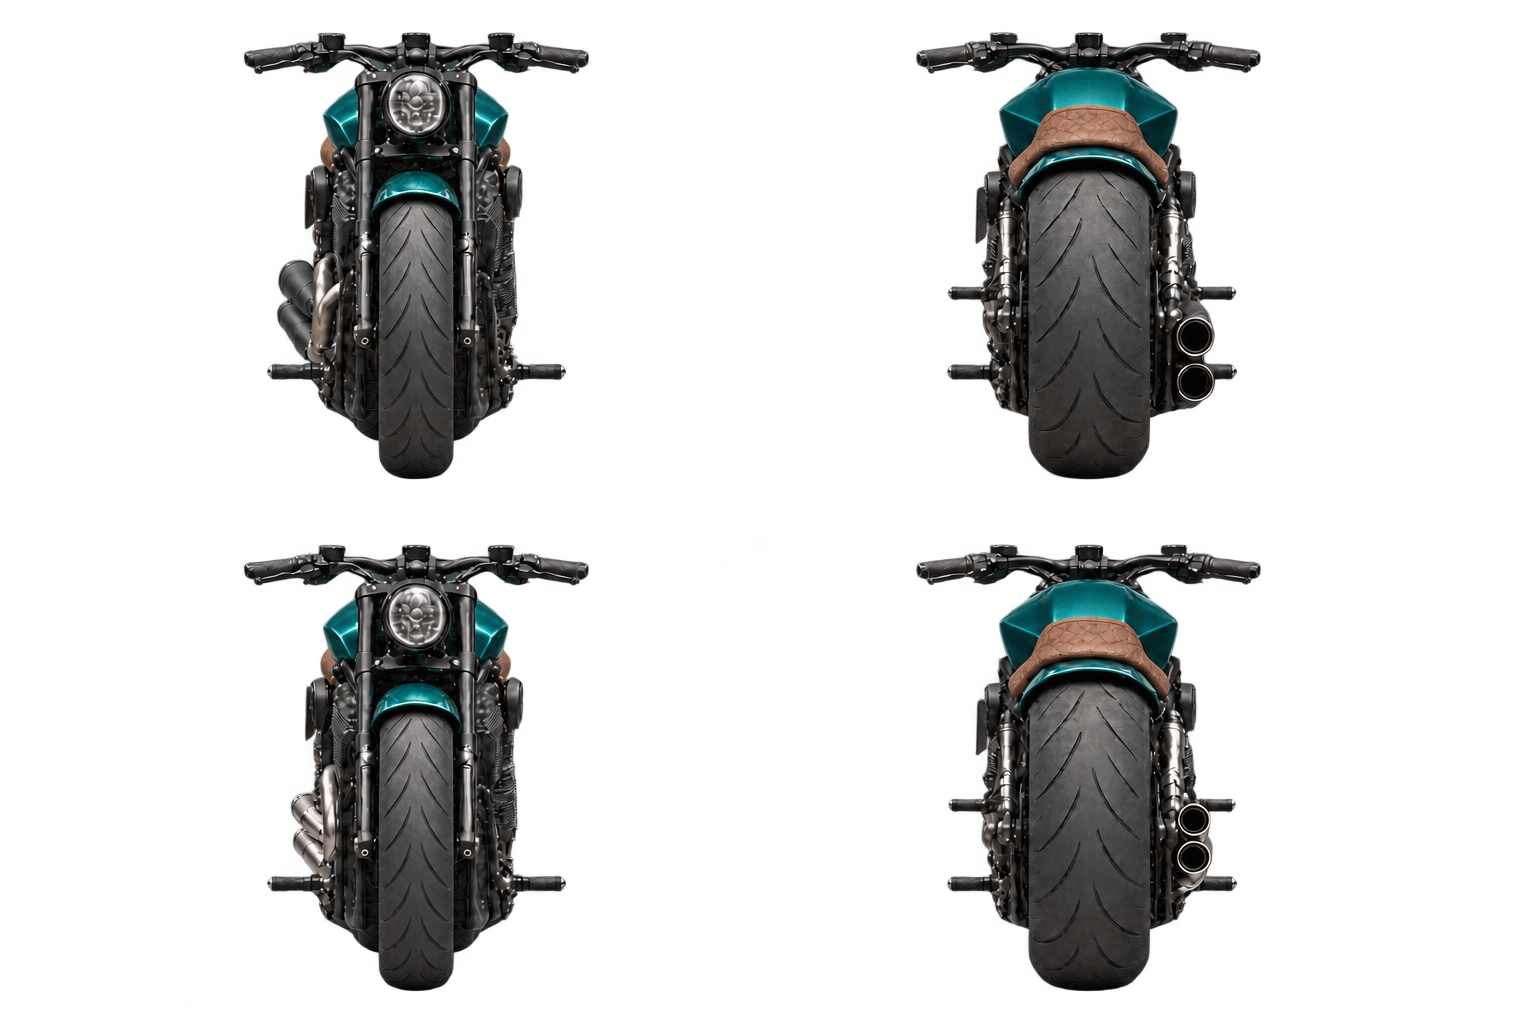
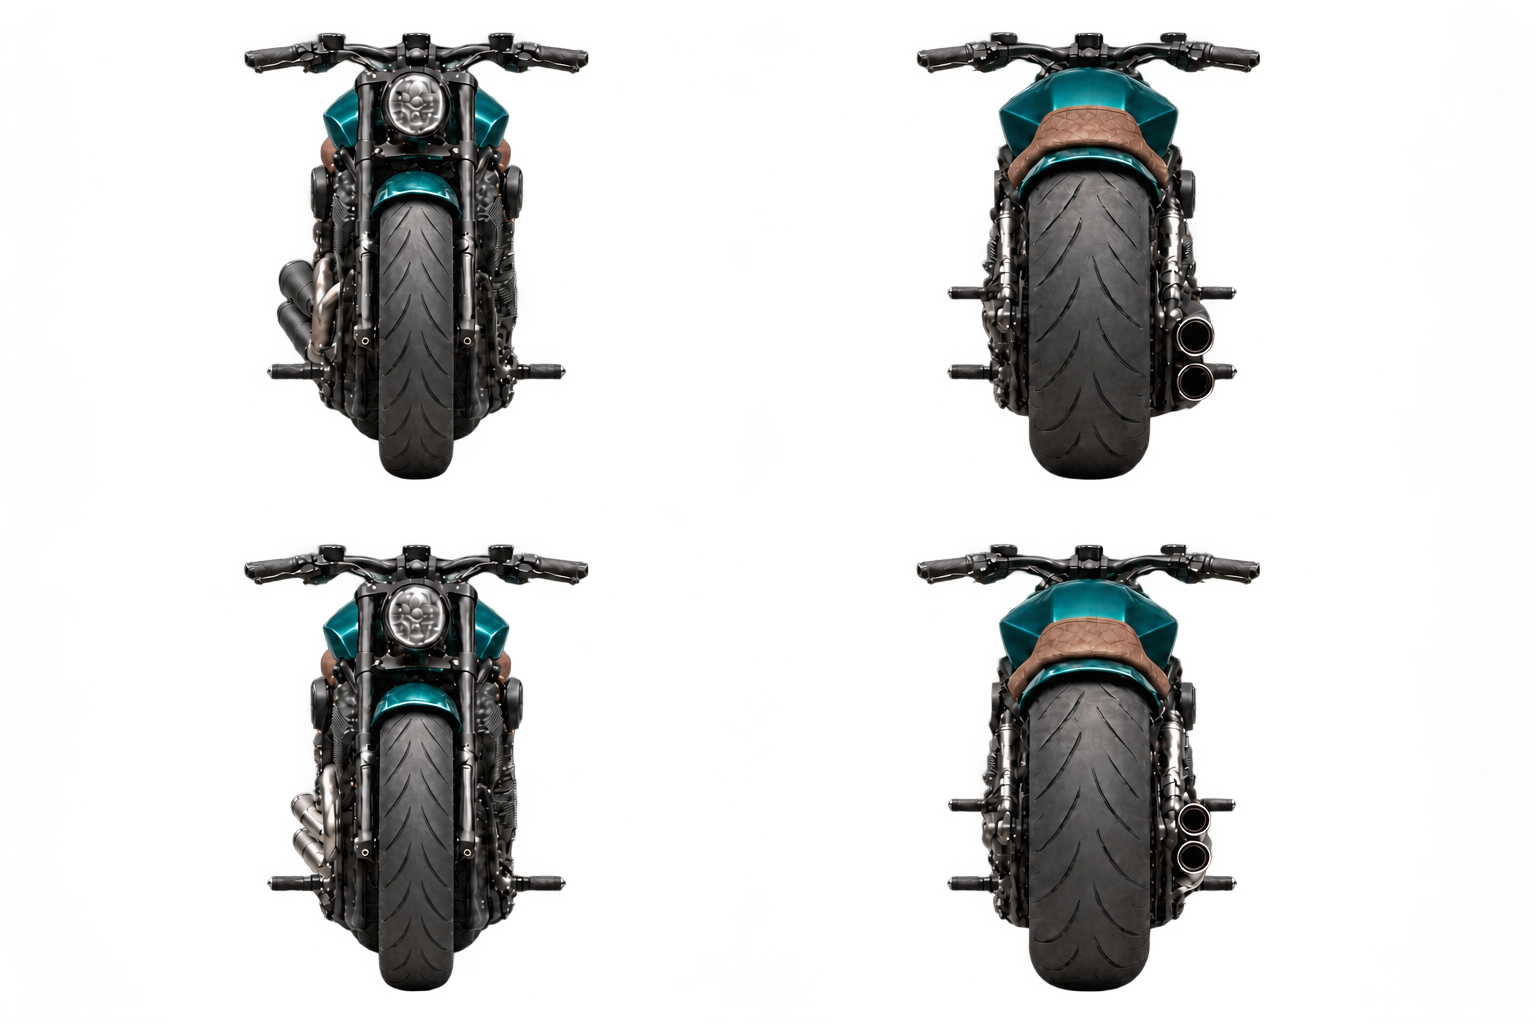
Repair wheel transparency and black leather, remove plate bracket

diff --git a/src/lib/BikeViewer.svelte b/src/lib/BikeViewer.svelte
@@ -48,14 +48,27 @@
   }
 
   /** Tint only the chromatic bodywork and leather, retaining neutral mechanical parts and highlights.
-   * @param {ImageData} frame @param {string} bodyColor @param {string} leatherColor */
-  function tintMaterials(frame, bodyColor, leatherColor) {
+   * @param {ImageData} frame @param {string} bodyColor @param {string} leatherColor @param {number[]} seatBounds */
+  function tintMaterials(frame, bodyColor, leatherColor, seatBounds) {
     const body = rgb(bodyColor)
     const leather = rgb(leatherColor)
     const pixels = frame.data
     for (let index = 0; index < pixels.length; index += 4) {
       if (!pixels[index + 3]) continue
       const r = pixels[index], g = pixels[index + 1], b = pixels[index + 2]
+      // Desaturate warm highlights and stitching inside the saddle as well as its base colour.
+      // Bounds are expressed in a 768x512 frame and exclude warm metal elsewhere on the bike.
+      const x = (index / 4 % frame.width) * 768 / frame.width
+      const y = Math.floor(index / 4 / frame.width) * 512 / frame.height
+      if (leatherColor === '#29292a' && x >= seatBounds[0] && x <= seatBounds[2]
+        && y >= seatBounds[1] && y <= seatBounds[3] && r - g > 4 && g - b > 3) {
+        const luminance = 0.2126 * r + 0.7152 * g + 0.0722 * b
+        const tone = luminance * 0.34 + Math.max(0, luminance - 150) * 0.35
+        pixels[index] = tone
+        pixels[index + 1] = tone
+        pixels[index + 2] = tone + 1
+        continue
+      }
       const bodyStrength = Math.min(g, b) - r
       const leatherStrength = r - Math.max(g, b)
       let target, strength, shade, reflection
@@ -80,7 +93,9 @@
 
   $effect(() => {
     const selectedView = views[view]
-    const path = selectedView.axial ? '/images/vrod-axial.png' : source
+    // The exhaust is hidden in the left profile; share one frame to prevent wheel geometry changing.
+    const path = selectedView.axial ? '/images/vrod-axial.png'
+      : selectedView.frame === 3 ? '/images/vrod-short.png' : source
     const angle = selectedView.frame + (selectedView.axial ? axialRow * 2 : 0)
     const body = paint, leather = seat
     retry
@@ -100,7 +115,7 @@
         const context = buffer.getContext('2d', { willReadFrequently: true })
         if (!context) throw new Error('Canvas unavailable')
         context.drawImage(image, (angle % 2) * width, Math.floor(angle / 2) * height, width, height, 0, 0, width, height)
-        frame = tintMaterials(context.getImageData(0, 0, width, height), body, leather)
+        frame = tintMaterials(context.getImageData(0, 0, width, height), body, leather, selectedView.seatBounds)
         if (cache.size >= 12) cache.delete(cache.keys().next().value)
         cache.set(key, frame)
       }

diff --git a/src/lib/configurator.js b/src/lib/configurator.js
@@ -16,12 +16,12 @@ export const exhausts = [
 ]
 
 export const views = [
-  { name: 'Правый профиль', short: 'Справа', frame: 0, axial: false, bearing: 90 },
-  { name: 'Спереди, три четверти', short: 'Перед ¾', frame: 1, axial: false, bearing: 45 },
-  { name: 'Вид прямо спереди', short: 'Анфас', frame: 0, axial: true, bearing: 0 },
-  { name: 'Левый профиль', short: 'Слева', frame: 3, axial: false, bearing: -90 },
-  { name: 'Вид прямо сзади', short: 'Сзади', frame: 1, axial: true, bearing: -180 },
-  { name: 'Сзади, три четверти', short: 'Корма ¾', frame: 2, axial: false, bearing: -225 },
+  { name: 'Правый профиль', short: 'Справа', frame: 0, axial: false, bearing: 90, seatBounds: [120, 155, 335, 245] },
+  { name: 'Спереди, три четверти', short: 'Перед ¾', frame: 1, axial: false, bearing: 45, seatBounds: [125, 155, 320, 245] },
+  { name: 'Вид прямо спереди', short: 'Анфас', frame: 0, axial: true, bearing: 0, seatBounds: [310, 130, 525, 180] },
+  { name: 'Левый профиль', short: 'Слева', frame: 3, axial: false, bearing: -90, seatBounds: [410, 150, 650, 235] },
+  { name: 'Вид прямо сзади', short: 'Сзади', frame: 1, axial: true, bearing: -180, seatBounds: [225, 95, 425, 195] },
+  { name: 'Сзади, три четверти', short: 'Корма ¾', frame: 2, axial: false, bearing: -225, seatBounds: [155, 125, 390, 225] },
 ]
 
 export const defaults = { paint: 'graphite', seat: 'black', exhaust: 'twin' }

diff --git a/docs/image-prompts.md b/docs/image-prompts.md
@@ -1,5 +1,29 @@
 # Additional V-Rod views
 
+## Latest change: remove plate bracket
+
+At the user's request, removed the protruding plate and bracket from both left-profile images and its visible edge in the axial sheet. This supersedes the earlier plate-restoration prompts below. Final files are the three `public/images/vrod-*.png` atlases. Built-in ImageGen mode.
+
+### Main sheets
+
+Strict localized object removal from this transparent 1536x1024 2x2 motorcycle atlas. In the BOTTOM RIGHT cell (left-side profile), remove ONLY the protruding license-plate panel and its mounting bracket behind the rear wheel, at the far right edge of the motorcycle. It is the silver/white diagonal narrow rectangle sticking out next to the rear tire and its small dark mounting arm. Restore the tire edge where obscured and true transparent alpha outside the tire. Keep the repaired rear wheel, blade spokes, small belt pulley, belt, swingarm, shock absorber, all wheel openings and their alpha, every other bike part and all other three cells exactly unchanged. Do NOT remove belt or swingarm. Do not add any substitute panel, lights or parts. Preserve exact composition, scale, positions, 1536x1024 dimensions, 2x2 grid, all colors and genuinely transparent alpha including wheel openings.
+
+### Axial sheet
+
+Strict localized removal. Edit this transparent 1536x1024 2x2 V-Rod atlas. Remove ONLY the little vertical license plate bracket/panel visible edge-on at the outer VIEWER LEFT side of both REAR-view motorcycles in the RIGHT column, beside the upper rear shock. It is the narrow vertical black rectangle at approximately x980 y210 and x980 y722. Restore small mechanical/transparent area behind it. If the same plate edge is visible at the outer VIEWER RIGHT of the front-view bikes, remove only that edge too. Preserve shock absorbers, foot pegs, wheel and tire sizes, exact front tire width, two right-side exhausts, all colors, leather, tank, headlight, cameras, every position, 2x2 layout and all other parts exactly unchanged. No added parts. Maintain genuine transparent alpha and 1536x1024 dimensions.
+
+## Wheel transparency and drive repair
+
+Built-in ImageGen edited `public/images/vrod-twin.png` and `public/images/vrod-short.png` to repair the left-profile rear wheel/pulley and remove opaque background fills between the Short Cut wheel spokes. Black leather highlights are now desaturated within per-view saddle bounds by the viewer, preserving alpha and avoiding broad changes to surrounding metal.
+
+### Twin Black repair prompt
+
+Precise localized product-image repair. EDIT TARGET is this transparent 1536x1024 2x2 motorcycle atlas. Change ONLY the REAR WHEEL ASSEMBLY in the BOTTOM-RIGHT cell (left side profile, motorcycle facing left). The rear wheel has malformed overlapping melted rings and ambiguous spokes. Repair it as one physically coherent black alloy rear wheel: perfectly concentric rim and tire, clean broad curved blade spokes consistent with the front wheel, a smaller circular belt pulley centered on the rear axle, a toothed drive belt running from the front drive sprocket tangentially around that rear pulley. Keep the swingarm and shock attachment readable. The wheel openings must be genuinely transparent wherever no wheel/drive part occludes the background; no painted black or grey fill in empty holes. Keep current rear tire size, center, camera, placement and orientation exactly. Preserve all bodywork, headlight, seat, exhaust, plate bracket and ALL OTHER THREE CELLS exactly unchanged. Do not add any extra circles, sprockets, pipes, fork parts or text. Maintain exact 1536x1024 canvas and 2x2 layout; each cell 768x512; genuine transparent alpha background.
+
+### Short Cut repair prompt
+
+Precise alpha-mask and rear-wheel repair. Image 1 is the EDIT TARGET: transparent 1536x1024 2x2 V-Rod short stainless exhaust atlas. Image 2 is REFERENCE: same bike with long black pipes and a repaired left-profile rear wheel. (1) Fix alpha in EVERY wheel in image 1: the empty open spaces BETWEEN the alloy wheel spokes must have genuine alpha=0, allowing any webpage background to show through. Currently they are wrongly filled opaque dark charcoal. Remove ONLY these unwanted background fills, not the physical black spokes, rim, tire, brake rotor, swingarm or belt. No white/grey replacement paint: actual transparency inside the wheel holes, matching reference 2. (2) In bottom-right LEFT PROFILE cell, match the repaired rear wheel and small concentric belt pulley from reference 2, including correct tangent belt path and transparent spoke openings. Keep the left-profile motorcycle otherwise identical to reference 2 because right-side exhaust is hidden. Keep all SHORT stainless exhausts from image 1 in the other three cells. Preserve ALL remaining image1 geometry, scale, location, tank, saddle, headlamp, tires and framing. Do not change color or introduce new parts. Exact same 1536x1024, four 768x512 cells, no text, genuine transparent alpha everywhere outside the physical motorcycle including enclosed wheel openings. The result will be displayed on a PALE background, so opaque dark blobs in empty holes are unacceptable.
+
 ## Visual review
 
 Reviewed all 12 source frames (six angles × two exhaust options). After user feedback, widened the front tire and fender. Updated all four main angles against the workshop reference to bring tank contour, saddle, wheel pattern and plate bracket closer to the reference. Derived Short Cut from the corrected Twin Black sheet with an exhaust-only edit, then aligned the axial views with the updated build. Paint and leather are recolored from these frames rather than regenerated for each selection.
